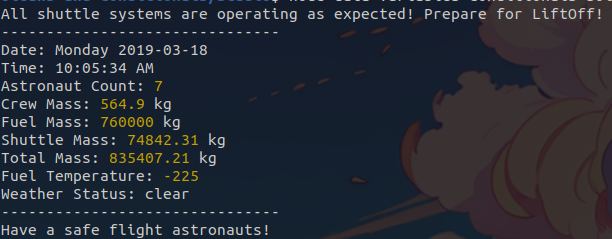
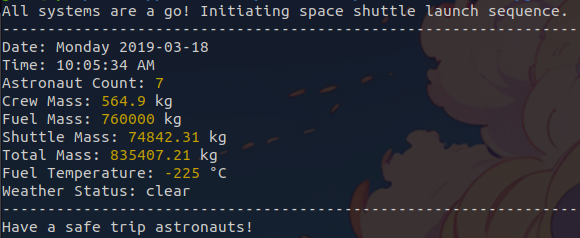
studios and exercises sections complete

diff --git a/content/decisions-with-conditionals/exercises/_index.md b/content/decisions-with-conditionals/exercises/_index.md
@@ -11,3 +11,185 @@ lastEditor: # update any time edits are made after review
 lastEditorGitHub: # update any time edits are made after review
 lastMod: # Wed Jul 5 08:49:19 AM CDT 2023
 ---
+
+Attempt these exercises to test your understanding. Don't worry if you struggle
+while working on them. Struggling and then reviewing the material will help you
+remember it.
+
+Take note of any problem here or topic from this chapter that you don't understand. 
+Take a break and return to the problem. Do you see it in a new way or have a better 
+understanding? If not, try spending five minutes researching the topic. Start with this
+book and if you still have questions, ask one on the internet or Slack/Discourse. 
+You're not the first person to learn to code and you're definitely not the first person
+to ask a question or get stuck!
+
+1. **Declare and initialize the following variables for our space shuttle**
+
+| Variable Name       | Value       |
+|---------------------|-------------|
+| engineIndicatorLight| red blinking|
+| spaceSuitsOn        | true        |
+| shuttleCabinReady   | true        |
+| crewStatus          | spaceSuitsOn && shuttleCabinReady|
+| computerStatusCode  | 200         |
+| shuttleSpeed        | 15000       |
+
+{{% expand "Check Your Solution" %}}
+```javascript
+let engineIndicatorLight = "red blinking";
+let spaceSuitsOn = true;
+let shuttleCabinReady = true;
+let crewStatus = spaceSuitsOn && shuttleCabinReady;
+let computerStatusCode = 200;
+let shuttleSpeed = 15000;
+```
+{{% /expand %}}
+
+2. **Examine the code below. What will be printed to the console?**
+
+   Use the value of `engineIndicatorLight` defined above to answer this question.
+
+   ```javascript
+   if (engineIndicatorLight === "green") {
+      console.log("engines have started");
+   } else if (engineIndicatorLight === "green blinking") {
+      console.log("engines are preparing to start");
+   } else {
+      console.log("engines are off");
+   }
+   ```
+
+3. **Write conditional expressions to satisfy the safety rules.** 
+
+   Use the variables defined from the table above to satisfy the rules listed below.
+
+-  `crewStatus`
+   - If the value is `true`, print "Crew Ready"
+   - Else print "Crew Not Ready"
+
+   {{% expand "Check Your Solution" %}}
+   ```javascript
+   if (crewStatus) {
+     console.log("Crew Ready");
+   } else {
+     console.log("Crew Not Ready");
+   }
+   ```
+   {{% /expand %}}
+
+- `computerStatusCode`
+   - If the value is `200`, print "Please stand by. Computer is rebooting."
+   - Else if the value is `400`, print "Success! Computer online."
+   - Else print "ALERT: Computer offline!"
+
+   {{% expand "Check Your Solution" %}}
+   ```javascript
+   if (computerStatusCode === 200) {
+     console.log("Please stand by. Computer is rebooting.");
+   } else if (computerStatusCode === 400) {
+     console.log("Success! Computer online.");
+   } else {
+     console.log("ALERT: Computer offline!");
+   }
+   ```
+   {{% /expand %}}
+
+- `shuttleSpeed`
+   - If the value is `> 17500`, print "ALERT: Escape velocity reached!"
+   - Else if the value is `< 8000`, print "ALERT: Cannot maintain orbit!"
+   - Else print "Stable speed"
+
+   {{% expand "Check Your Solution" %}}
+   ```javascript
+   if (shuttleSpeed > 17500) {
+     console.log("ALERT: Escape velocity reached!");
+   } else if (shuttleSpeed < 8000) {
+     console.log("ALERT: Cannot maintain orbit!");
+   } else {
+     console.log("Stable speed.");
+   }
+   ```
+   {{% /expand %}}
+
+4. **PREDICT**
+
+   Do these code blocks produce the same result? Answer Yes or No.
+
+   ```javascript
+   if (crewStatus && computerStatusCode === 200 && spaceSuitsOn) {
+      console.log("all systems go");
+   } else {
+      console.log("WARNING. Not ready");
+   }
+   ```
+
+   ```javascript
+   if (!crewStatus || computerStatusCode !== 200 || !spaceSuitsOn) {
+      console.log("WARNING. Not ready");
+   } else {
+      console.log("all systems go");
+   }
+   ```
+
+5. **Monitor the shuttle's fuel status.**
+
+   Implement the checks below using `if` / `else if` / `else` statements. Order is important when working with conditionals, and the checks below are NOT written in the correct sequence. Please read ALL of the checks before coding and then decide on the best order for the conditionals.
+
+- If `fuelLevel` is above 20000 AND `engineTemperature` is at or below 2500, print "Full tank. Engines good."
+- If `fuelLevel` is above 10000 AND `engineTemperature` is at or below 2500, print "Fuel level above 50%. Engines good."
+- If `fuelLevel` is above 5000 AND `engineTemperature` is at or below 2500, print "Fuel level above 25%. Engines good."
+- If `fuelLevel` is at or below 5000 OR `engineTemperature` is above 2500, print "Check fuel level. Engines running hot."
+- If `fuelLevel` is below 1000 OR `engineTemperature` is above 3500 OR `engineIndicatorLight` is red blinking, print "ENGINE FAILURE IMMINENT!"
+- Otherwise, print "Fuel and engine status pending..."
+
+{{% notice blue "Try It!" "rocket" %}}
+Run your code several times ot make sure it prints the correct phrase for each set of conditions.
+
+| **fuelLevel** | **engineTemperature** | **engineIndicatorLight** | **Result**                          |
+|---------------|----------------------|--------------------------|-------------------------------------|
+| Any           | Any                  | red blinking             | ENGINE FAILURE IMMINENT!            |
+| 21000         | 1200                 | NOT red blinking         | Full tank. Engines good.            |
+| 900           | Any                  | Any                      | ENGINE FAILURE IMMINENT!            |
+| 5000          | 1200                 | NOT red blinking         | Check fuel level. Engines running hot. |
+| 12000         | 2600                 | NOT red blinking         | Check fuel level. Engines running hot. |
+| 18000         | 2500                 | NOT red blinking         | Fuel level above 50%. Engines good.  |
+{{% /notice %}}
+
+{{% expand "Check Your Solution" %}}
+```javascript
+if (fuelLevel < 1000 || engineTemperature > 3500 || engineIndicatorLight === "red blinking"){
+  console.log("ENGINE FAILURE IMMINENT!");
+} else if (fuelLevel <= 5000 || engineTemperature > 2500){
+  console.log("Check fuel level. Engines running hot.");
+} else if (fuelLevel > 20000 && engineTemperature <= 2500){
+  console.log("Full tank. Engines good.");
+} else if (fuelLevel > 10000 && engineTemperature <= 2500){
+  console.log("Fuel level above 50%. Engines good.");
+} else if (fuelLevel > 5000 && engineTemperature <= 2500){
+  console.log("Fuel level above 25%. Engines good.");
+} else {
+  console.log("Fuel and engine status pending...");
+}
+```
+{{% /expand %}}
+
+6. **Final bit of fun!**
+
+   The shuttle should only launch if the fuel tank is full and the engine check is OK. *However*, let's establish an override command to ignore any warnings and send the shuttle into space anyway!
+
+- Create the variable `commandOverride`, and set it to be `true` *or*
+   `false`.
+
+   If `commandOverride` is `false`, then the shuttle should only launch
+   if the fuel and engine check are OK.
+
+   If `commandOverride` is `true`, then the shuttle will launch
+   regardless of the fuel and engine status.
+
+- Code the following `if` / `else` check:
+
+   If `fuelLevel` is above 20000 AND `engineIndicatorLight` is NOT
+   red blinking OR `commandOverride` is true print "Cleared to
+   launch!"
+
+   Else print "Launch scrubbed!"

diff --git a/content/decisions-with-conditionals/studio/_index.md b/content/decisions-with-conditionals/studio/_index.md
@@ -1,5 +1,5 @@
 ---
-title: "Studio: Data and Variables with Conditions"
+title: "Studio: Shuttle Launch"
 date: 2023-05-25T12:55:09-05:00
 draft: false
 weight: 3
@@ -12,12 +12,16 @@ lastEditorGitHub: # update any time edits are made after review
 lastMod: # Wed Jul 5 08:49:19 AM CDT 2023
 ---
 
-In this studio, you are going to write code to verify that your Space Shuttle is prepared for LiftOff!
+In this studio, you are going to write code to verify that your Space Shuttle is prepared for LiftOff! This activity will combine knowledge you have gained from this chapter and the [Data and Variables Chapter]({{< relref "../../data-and-variables/_index.md" >}})
+
+{{% notice blue Note "rocket" %}}
+The starter code for this studio can be found inside of the following repository: [javascript-projects](https://github.com/LaunchCodeEducation/javascript-projects/) within the `booleans-and-conditionals` directory.
+{{% /notice %}}
 
 This studio activity will consist of 3 parts:
-1. Initializing variables with shuttle specifications
-1. Writing conditional statements to check `if` your shuttle is cleared for LiftOff
-1. Verify that all conditional statements have passed in order to launch the shuttle, otherwise abort the launch sequence
+1. Initializing variables with shuttle specifications.
+1. Writing conditional statements to check `if` your shuttle meets specific requirements and is cleared for LiftOff.
+1. Verify that all conditional statements have passed in order to launch the shuttle, otherwise aborting the launch sequence.
 
 ## Initialize Variables
 
@@ -47,10 +51,10 @@ Start out by creating the below variables with the given values. Remember to acc
 We want to make sure that the following conditions are met in order for our shuttle to launch. Create a statement for each condition:
 1. if `astronautCount` is no greater than 7
 1. if `astronautStatus` is ready
-1. if the `totalMassKg` is less than the `maximumMassLimit`
-1. if the `fuelTempCelsius` is no less than 200 OR no greater than 300
-1. if `fuelLevel` is appropriate
-1. if `weatherStatus` is appropriate
+1. if the `totalMassKg` is less than the `maximumMassLimit` of `85000`
+1. if the `fuelTempCelsius` is no less than `-300` OR no greater than `-150`
+1. if `fuelLevel` is at `100%`
+1. if `weatherStatus` is `clear`
 
 ## Very Shuttle is Cleared for LiftOff
 
